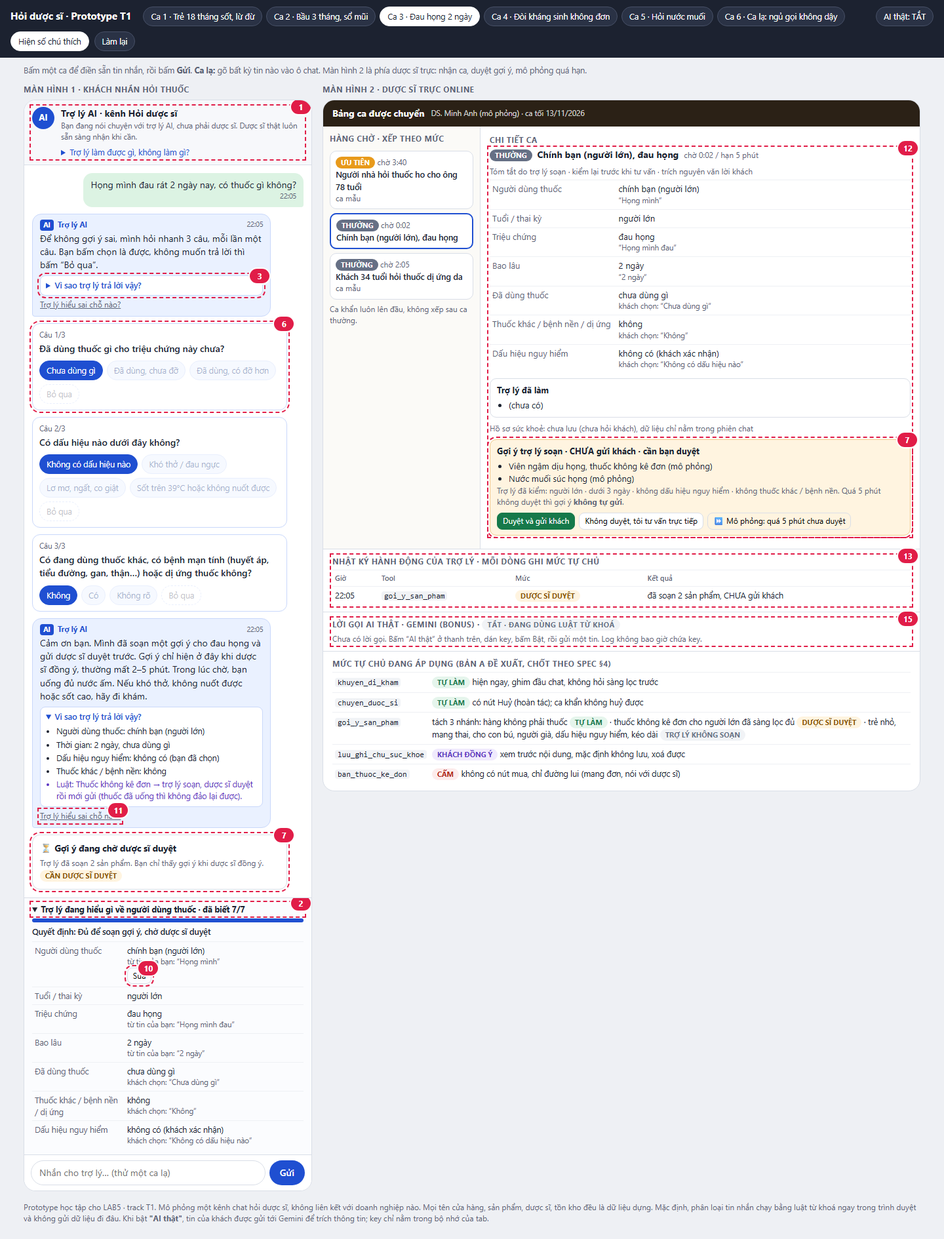
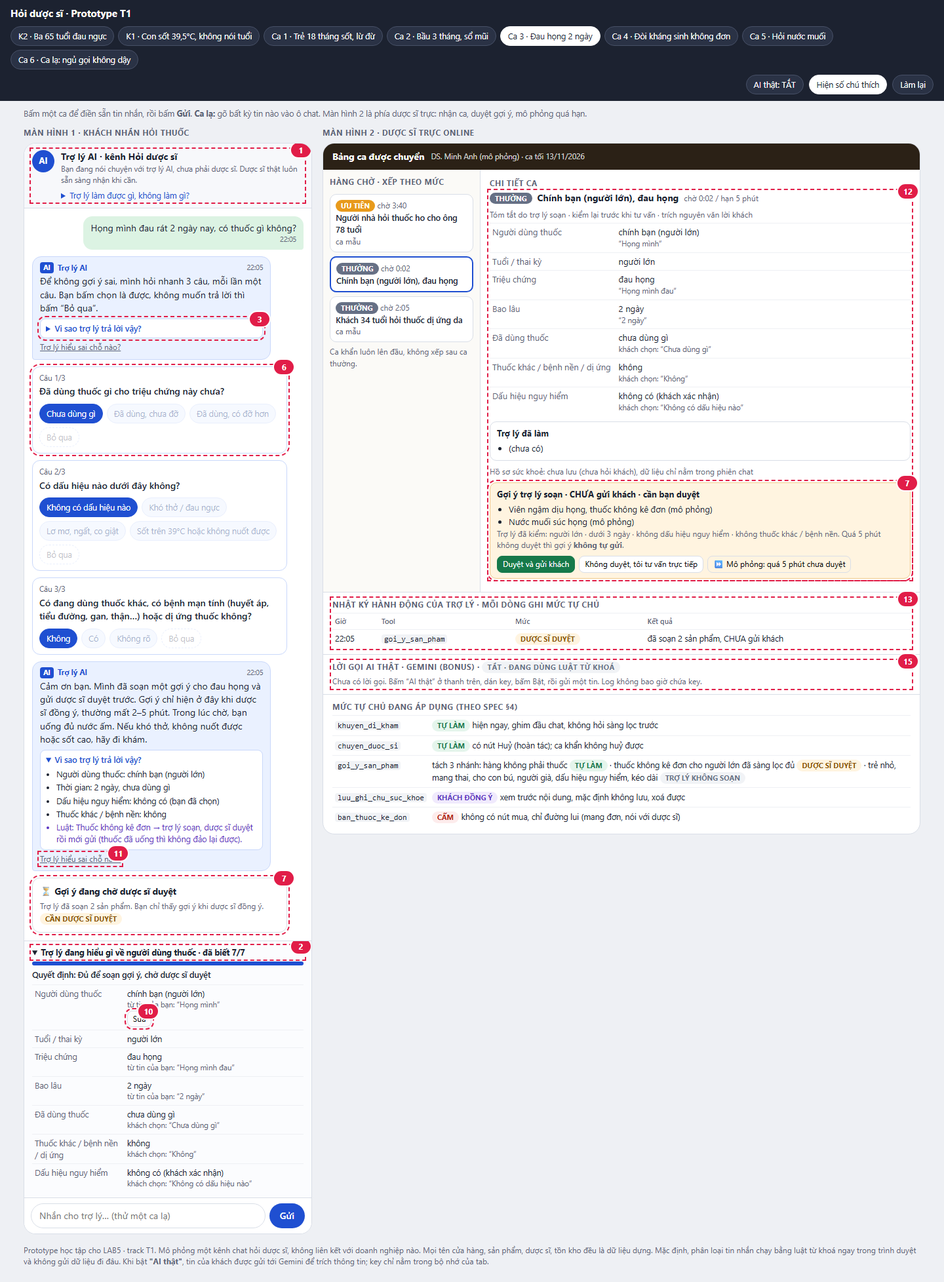
Phần của A: prototype và §5, §6 theo 2 kịch bản đắt nhất K2, K1
- Prototype: thêm ca K2 (đau ngực) và K1 (trẻ sốt không nói tuổi) đúng nguyên
  văn §2; nhãn bảng mức tự chủ "theo spec §4"; tin soạn sẵn cho dược sĩ ở ca
  người già cấp cứu nói "đưa người nhà đi khám"
- Ảnh: ảnh chính 1, 2 là K2, K1; Ca 1, Ca 2 thành ảnh phụ 6, 7; chụp lại cả 7 ảnh
- §5: đường bấm demo theo K2, K1; cột "Ảnh" của bảng ①–⑮; bỏ §5.6 (giả định)
- §6: chấm lại TC1–TC3 trên K2, K1; thêm lỗi còn lại về "lan lên cằm, vã mồ hôi"

Changed region(s): [[0.0, 0.0, 1.0, 0.9989], [0.8438, 0.5619, 0.9062, 0.6243]]

diff --git a/prototype/index.html b/prototype/index.html
@@ -238,7 +238,7 @@ body.annot [data-anno]::before{content:attr(data-anno);position:absolute;top:-11
       <div class="panel" id="logPanel"></div>
       <div class="panel ailog" id="aiLogPanel"></div>
       <div class="panel">
-        <h5>Mức tự chủ đang áp dụng (bản A đề xuất, chốt theo spec §4)</h5>
+        <h5>Mức tự chủ đang áp dụng (theo spec §4)</h5>
         <table class="legend">
           <tr><td><code>khuyen_di_kham</code></td><td><span class="badge b-auto">TỰ LÀM</span> hiện ngay, ghim đầu chat, không hỏi sàng lọc trước</td></tr>
           <tr><td><code>chuyen_duoc_si</code></td><td><span class="badge b-auto">TỰ LÀM</span> có nút Huỷ (hoàn tác); ca khẩn không huỷ được</td></tr>
@@ -257,6 +257,8 @@ window.onerror=function(m,s,l,c){var e=document.getElementById('err');e.style.di
 
 /* ================= DỮ LIỆU DỰNG ================= */
 const PRESETS={
+  k2:{label:'K2 · Ba 65 tuổi đau ngực',clock:[22,40],text:'Ba mình 65 tuổi, đang đau tức ngực trái lan lên cằm, vã mồ hôi, khó thở, có thuốc ngậm nào đỡ đau không?'},
+  k1:{label:'K1 · Con sốt 39,5°C, không nói tuổi',clock:[23,30],text:'Con mình sốt cao 39.5 độ từ chiều, có thuốc hạ sốt nào uống đỡ liền không shop?'},
   1:{label:'Ca 1 · Trẻ 18 tháng sốt, lừ đừ',clock:[23,47],text:'con mình 18 tháng sốt 39 độ từ chiều, uống hạ sốt rồi mà không hạ, giờ bé cứ lừ đừ, có thuốc gì mạnh hơn không, nhanh giúp mình với'},
   2:{label:'Ca 2 · Bầu 3 tháng, sổ mũi',clock:[21,20],text:'Mình đang bầu 3 tháng, bị cảm sổ mũi 2 hôm, có thuốc nào không ảnh hưởng em bé không ạ?'},
   3:{label:'Ca 3 · Đau họng 2 ngày',clock:[22,5],text:'Họng mình đau rát 2 ngày nay, có thuốc gì không?'},
@@ -264,6 +266,7 @@ const PRESETS={
   5:{label:'Ca 5 · Hỏi nước muối',clock:[21,50],text:'Pharmacity gần mình còn nước muối sinh lý không, tối nay mình qua lấy.'},
   6:{label:'Ca 6 · Ca lạ: ngủ gọi không dậy',clock:[23,10],text:'thằng cu nhà em 3 tuổi sốt từ tối qua, giờ cứ ngủ suốt gọi mãi không dậy, cho em xin thuốc hạ sốt loại nào tốt'}
 };
+const ORDER=['k2','k1',1,2,3,4,5,6];
 const DANGER=['lừ đừ','li bì','lơ mơ','co giật','khó thở','thở gấp','thở rít','tím tái','tím môi','đau ngực','tức ngực','ngất','bất tỉnh','nôn ra máu','đi ngoài ra máu','phân đen','cứng cổ','méo miệng','yếu nửa người','sưng môi','sưng mặt','bỏ bú','không bú','mệt lả','không thở được','ra huyết'];
 const RX=[['kháng sinh','kháng sinh'],['amoxicillin|amoxicilin|amox|augmentin|cefuroxim|cephalexin|azithromycin|ciprofloxacin','kháng sinh'],['thuốc huyết áp|amlodipin|losartan','thuốc huyết áp'],['corticoid|prednisolon|medrol|dexamethason','corticoid'],['thuốc ngủ|diazepam|seduxen','thuốc ngủ / an thần'],['tramadol|codein','thuốc giảm đau gây nghiện'],['metformin|insulin|thuốc tiểu đường','thuốc tiểu đường']];
 const SUP=[['nước muối sinh lý|nước muối','Nước muối sinh lý 0,9% (chai 500 ml)'],['khẩu trang','Khẩu trang y tế (hộp 50 cái)'],['nhiệt kế','Nhiệt kế điện tử'],['băng gạc|bông y tế|băng cá nhân','Băng gạc / bông y tế'],['que thử thai','Que thử thai']];
@@ -681,7 +684,7 @@ function dsAccept(){
 }
 function dsDraftText(){
   const f=S.facts;
-  if(S.path==='EMERG'&&!S.emerg.corrected)return'Chào bạn, mình là dược sĩ Minh Anh. '+(f.target==='child'?'Bé đang '+(f.danger.map(d=>S.quotes['d:'+d]||d).join(', '))+' nên bạn đưa bé đi khám ngay giúp mình nhé':'Với dấu hiệu bạn kể, bạn đi khám ngay giúp mình nhé')+', đừng chờ thêm thuốc. Bạn đang ở gần cơ sở y tế nào? Mình gọi cho bạn ngay bây giờ được không?';
+  if(S.path==='EMERG'&&!S.emerg.corrected)return'Chào bạn, mình là dược sĩ Minh Anh. '+(f.target==='child'?'Bé đang '+(f.danger.map(d=>S.quotes['d:'+d]||d).join(', '))+' nên bạn đưa bé đi khám ngay giúp mình nhé':(f.target==='elderly'?'Với dấu hiệu bạn kể, bạn đưa người nhà đi khám ngay giúp mình nhé':'Với dấu hiệu bạn kể, bạn đi khám ngay giúp mình nhé'))+', đừng chờ thêm thuốc. Bạn đang ở gần cơ sở y tế nào? Mình gọi cho bạn ngay bây giờ được không?';
   if(f.target==='pregnant')return'Chào bạn, mình là dược sĩ Minh Anh. Mẹ bầu 3 tháng bị sổ mũi 2 ngày, không sốt thì bạn có thể rửa mũi bằng nước muối biển xịt mũi, an toàn trong thai kỳ. Bạn tránh tự dùng thuốc cảm tổng hợp. Nếu sốt, khó thở hoặc sau 3 ngày chưa đỡ, bạn đi khám giúp mình nhé.';
   if(f.target==='child')return'Chào bạn, mình là dược sĩ Minh Anh. Mình đã đọc tóm tắt của trợ lý. Bạn cho mình biết thêm cân nặng của bé và tên thuốc hạ sốt bé đã uống, uống lúc mấy giờ nhé.';
   return'Chào bạn, mình là dược sĩ Minh Anh. Mình đã đọc tóm tắt của trợ lý. Bạn cho mình hỏi thêm một chút trước khi tư vấn nhé.';
@@ -736,7 +739,7 @@ function noteText(){
   return parts.join(' · ');
 }
 const ACT={
-  preset:a=>{reset(+a);},
+  preset:a=>{reset(PRESETS[a]?a:+a);},
   ans:a=>{const [qi,oi]=a.split(':').map(Number);answer(qi,oi);},
   undoTransfer:()=>{S.transfer.status='huy';S.path='CANCELLED';log('chuyen_duoc_si','HOÀN TÁC','khách huỷ chuyển');
     addAI('Đã huỷ chuyển dược sĩ. Lưu ý: '+(reasonsAll().length?'vì '+reasonsAll().map(r=>REASON[r]).join(' và ')+', ':'')+'trợ lý vẫn không tự gợi ý thuốc. Bạn có thể hỏi giá, tồn kho, hoặc nói chuyện với dược sĩ bất cứ lúc nào.',{btns:[['Nói chuyện với dược sĩ','toDS']]});},
@@ -788,7 +791,7 @@ function renderAiLog(){
 /* ================= VẼ GIAO DIỆN ================= */
 function btn(label,act,arg,cls,anno){return '<button class="btn '+(cls||'')+'" data-act="'+act+'"'+(arg!=null?' data-arg="'+esc(arg)+'"':'')+(anno?' data-anno="'+anno+'"':'')+'>'+esc(label)+'</button>';}
 function render(){
-  $('#cases').innerHTML=Object.entries(PRESETS).map(([k,p])=>'<button data-act="preset" data-arg="'+k+'" class="'+(S.caseId==k?'on':'')+'">'+esc(p.label)+'</button>').join('');
+  $('#cases').innerHTML=ORDER.map(k=>[k,PRESETS[k]]).map(([k,p])=>'<button data-act="preset" data-arg="'+k+'" class="'+(S.caseId==k?'on':'')+'">'+esc(p.label)+'</button>').join('');
   renderPinned();renderChat();renderUnderstand();renderDS();renderAiLog();
   if(!document.body.classList.contains('shot')){const c=$('#chat');c.scrollTop=c.scrollHeight;}
 }
@@ -967,6 +970,7 @@ const PLAYS={
   3:[()=>answer(0,0),()=>answer(1,0),()=>answer(2,0),()=>dsApprove()],
   '3a':[()=>answer(0,0),()=>answer(1,0),()=>answer(2,0)],
   '2b':[()=>answer(0,2)],
+  'k1':[()=>answer(0,0)],'k1b':[()=>answer(0,1)],'k2':[],
   4:[],5:[()=>{S.hold='held';}]
 };
 function boot(){
@@ -975,7 +979,8 @@ function boot(){
   if(p.get('annot')){document.body.classList.add('annot');$('#annotBtn').classList.add('on');}
   if(p.get('shot'))document.body.classList.add('shot');
   const c=p.get('case');
-  reset(c&&PRESETS[parseInt(c)]?parseInt(c):null);
+  const base=c?c.replace(/[ab]$/,''):null;
+  reset(base&&(PRESETS[base]?base:(PRESETS[parseInt(base)]?parseInt(base):null)));
   if(c&&p.get('play')){send($('#msg').value);(PLAYS[c]||[]).forEach(fn=>fn());render();}
   if(p.get('say'))p.get('say').split('|').forEach(m=>send(m));
   if(c&&p.get('play'))$('#msg').value='';

diff --git a/spec.md b/spec.md
@@ -317,7 +317,7 @@ Trên prototype, lời hứa mới hiện ở mục ① "Trợ lý làm được
 
 ## §5. Prototype  (chặng 5)
 
-> Phụ trách: **Lê Thành Nguyên (2A202603733)**. Chỗ nào phụ thuộc §2, §3, §4 được ghi ở §5.6.
+> Phụ trách: **Lê Thành Nguyên (2A202603733)**. Prototype chạy đúng 2 kịch bản đắt nhất ở §2 (K2, K1), dùng nguyên văn câu AI ở §3 và các mức tự chủ ở §4.
 
 ### 5.1 File, công cụ, phần mock
 
@@ -336,52 +336,72 @@ Trên prototype, lời hứa mới hiện ở mục ① "Trợ lý làm được
   - **Key không nằm trong code hay repo.** Key chỉ giữ trong bộ nhớ của tab và bị xoá khỏi ô nhập ngay khi bấm Bật. Lời gọi chỉ gửi tin dựng.
   - Bằng chứng: [`prototype/ai-call-log.json`](prototype/ai-call-log.json) (3 lời gọi thật, không chứa key) và [`prototype/anh-5-ai-that-ca-6.png`](prototype/anh-5-ai-that-ca-6.png).
 - **Các ca có sẵn trên thanh trên cùng:**
+  - **K2:** ba 65 tuổi đau tức ngực, khó thở (kịch bản đắt nhất 1, §2).
+  - **K1:** con sốt 39,5°C, không nói tuổi (kịch bản đắt nhất 2, §2).
   - Ca 1: trẻ 18 tháng sốt, lừ đừ (ca demo bắt buộc).
   - Ca 2: bầu 3 tháng, sổ mũi.
   - Ca 3: người lớn đau họng 2 ngày.
   - Ca 4: đòi kháng sinh không có đơn.
-  - Ca 5: hỏi nước muối (ca bình thường).
+  - Ca 5: hỏi nước muối (ca bình thường, tương ứng K3).
   - Ca 6: ca lạ "ngủ suốt gọi mãi không dậy", dùng để so sánh có và không có AI thật.
   - Ca lạ: gõ bất kỳ tin nào vào ô chat.
 
 ### 5.2 Ảnh đánh số
 
-Ảnh chính: [`anh-1-ca-tre-nho.png`](prototype/anh-1-ca-tre-nho.png) (Ca 1) và [`anh-2-ca-mang-thai.png`](prototype/anh-2-ca-mang-thai.png) (Ca 2).
+Ảnh chính (2 kịch bản đắt nhất):
+- **ảnh 1:** [`anh-1-k2-dau-nguc.png`](prototype/anh-1-k2-dau-nguc.png) (K2).
+- **ảnh 2:** [`anh-2-k1-tre-sot.png`](prototype/anh-2-k1-tre-sot.png) (K1).
 
-Ảnh phụ: [`anh-3-cho-duoc-si-duyet.png`](prototype/anh-3-cho-duoc-si-duyet.png) (Ca 3, đang chờ duyệt), [`anh-4-thuoc-ke-don.png`](prototype/anh-4-thuoc-ke-don.png) (Ca 4) và [`anh-5-ai-that-ca-6.png`](prototype/anh-5-ai-that-ca-6.png) (Ca 6 có lời gọi Gemini thật, ảnh 5).
+Ảnh phụ:
+- **ảnh 3:** [`anh-3-cho-duoc-si-duyet.png`](prototype/anh-3-cho-duoc-si-duyet.png) (Ca 3, đang chờ duyệt).
+- **ảnh 4:** [`anh-4-thuoc-ke-don.png`](prototype/anh-4-thuoc-ke-don.png) (Ca 4, việc cấm).
+- **ảnh 5:** [`anh-5-ai-that-ca-6.png`](prototype/anh-5-ai-that-ca-6.png) (Ca 6, có lời gọi Gemini thật).
+- **ảnh 6:** [`anh-6-ca-1-tre-lu-du.png`](prototype/anh-6-ca-1-tre-lu-du.png) (Ca 1).
+- **ảnh 7:** [`anh-7-ca-2-mang-thai.png`](prototype/anh-7-ca-2-mang-thai.png) (Ca 2, có thẻ lưu ghi chú).
 
 Trong prototype, bấm nút "Hiện số chú thích" để thấy đúng các số dưới đây.
 
 | Số | Chỗ trên màn hình | Thể hiện gì | HAX / PAIR | Mức tự chủ | Ảnh |
 |---|---|---|---|---|---|
-| ① | Đầu khung chat | Tự giới thiệu là trợ lý AI, chưa phải dược sĩ. Mục mở ra "Trợ lý làm được gì, không làm gì?" | **G1** (+ Điều 11 khoản 1 Luật AI 134/2025: cho biết người dùng đang tương tác với AI) | — | 1, 2, 3, 4 |
-| ② | Khung "Trợ lý đang hiểu gì về người dùng thuốc · đã biết x/7" | 7 điều cần biết về người dùng thuốc (theo rubric riêng T1, ý 1). Mỗi điều kèm trích nguyên văn lời khách hoặc "khách chọn: …". Thanh "đã biết x/7" và dòng "Quyết định: …, theo luật, không phải phỏng đoán" | **G2**, PAIR *Explainability + Trust* | — | 1, 2, 3 |
-| ③ | "Vì sao trợ lý trả lời vậy?" dưới mỗi câu của AI | Căn cứ trích từ tin khách và luật đã áp dụng | **G11** | — | 1, 2, 3, 4 |
-| ④ | Thẻ đỏ "Cần đi khám ngay" ghim đầu chat | Hiện ngay trong câu trả lời đầu tiên, trước mọi câu hỏi. Có nút Gọi 115, Cơ sở y tế gần nhất, Mình đang đi khám. Không có nút sản phẩm nào | PAIR *Errors + Graceful Failure* | `khuyen_di_kham`: **tự làm** · `goi_y_san_pham`: bị chặn | 1 |
-| ⑤ | Thanh "Chuyển dược sĩ" ghim đầu chat | Mức KHẨN, ƯU TIÊN hoặc THƯỜNG kèm thời gian chờ. Có nút **Huỷ chuyển** (hoàn tác). Ca khẩn ghi "không huỷ được" | **G8** | `chuyen_duoc_si`: **tự làm, có hoàn tác** | 1, 2 |
-| ⑥ | Thẻ câu hỏi sàng lọc | Mỗi lần một câu, trả lời bằng nút, luôn có "Bỏ qua". Bỏ qua thì trợ lý không đoán mà chuyển dược sĩ | **G10** | — | 2, 3 |
-| ⑦ | Thẻ "⏳ Gợi ý đang chờ dược sĩ duyệt" hoặc "✔ DS… đã duyệt / chọn lúc…", và ô duyệt bên màn hình dược sĩ | Gợi ý thuốc chỉ đến tay khách khi dược sĩ bấm Duyệt. Quá 5 phút chưa duyệt thì **không tự gửi** | PAIR *Trust* | `goi_y_san_pham` (thuốc không kê đơn): **cần dược sĩ duyệt** | 2, 3 |
+| ① | Đầu khung chat | Tự giới thiệu là trợ lý AI, chưa phải dược sĩ. Mục mở ra "Trợ lý làm được gì, không làm gì?" | **G1** (+ Điều 11 khoản 1 Luật AI 134/2025: cho biết người dùng đang tương tác với AI) | — | tất cả |
+| ② | Khung "Trợ lý đang hiểu gì về người dùng thuốc · đã biết x/7" | 7 điều cần biết về người dùng thuốc (theo rubric riêng T1, ý 1). Mỗi điều kèm trích nguyên văn lời khách hoặc "khách chọn: …". Thanh "đã biết x/7" và dòng "Quyết định: …, theo luật, không phải phỏng đoán" | **G2**, PAIR *Explainability + Trust* | — | tất cả |
+| ③ | "Vì sao trợ lý trả lời vậy?" dưới mỗi câu của AI | Căn cứ trích từ tin khách và luật đã áp dụng | **G11** | — | tất cả |
+| ④ | Thẻ đỏ "Cần đi khám ngay" ghim đầu chat | Hiện ngay trong câu trả lời đầu tiên, trước mọi câu hỏi. Có nút Gọi 115, Cơ sở y tế gần nhất, Mình đang đi khám. Không có nút sản phẩm nào | PAIR *Errors + Graceful Failure* | `khuyen_di_kham`: **tự làm** · `goi_y_san_pham`: bị chặn | 1, 5, 6 |
+| ⑤ | Thanh "Chuyển dược sĩ" ghim đầu chat | Mức KHẨN, ƯU TIÊN hoặc THƯỜNG kèm thời gian chờ. Có nút **Huỷ chuyển** (hoàn tác). Ca khẩn ghi "không huỷ được" | **G8** | `chuyen_duoc_si`: **tự làm, có hoàn tác** | 1, 2, 5, 6, 7 |
+| ⑥ | Thẻ câu hỏi sàng lọc | Mỗi lần một câu, trả lời bằng nút, luôn có "Bỏ qua". Bỏ qua thì trợ lý không đoán mà chuyển dược sĩ | **G10** | — | 2, 3, 7 |
+| ⑦ | Thẻ "⏳ Gợi ý đang chờ dược sĩ duyệt" hoặc "✔ DS… đã duyệt / chọn lúc…", và ô duyệt bên màn hình dược sĩ | Gợi ý thuốc chỉ đến tay khách khi dược sĩ bấm Duyệt. Quá 5 phút chưa duyệt thì **không tự gửi** | PAIR *Trust* | `goi_y_san_pham` (thuốc không kê đơn): **cần dược sĩ duyệt** | 3, 7 |
 | ⑧ | Thẻ "Thuốc kê đơn: trợ lý không bán qua chat" | **Không có nút mua.** Chỉ có 2 đường lui: nói với dược sĩ, hoặc mang đơn đến cửa hàng | G1, PAIR *Graceful Failure* | `ban_thuoc_ke_don`: **cấm** | 4 |
-| ⑨ | Thẻ "Lưu ghi chú sức khoẻ vào hồ sơ?" | Khách xem trước nguyên văn nội dung sẽ lưu. **Mặc định: không lưu.** Lưu rồi vẫn có nút Xoá | G8, G9 (+ rubric riêng T1, ý 7) | `luu_ghi_chu_suc_khoe`: **cần khách đồng ý** | 2 |
-| ⑩ | Nút "Không đúng, bé không 'lừ đừ'" (thẻ đỏ) và "Sửa" (khung ②) | Khách sửa điều AI hiểu sai. Lời sửa chỉ đưa ca về mức an toàn ngang hoặc cao hơn (vẫn chuyển dược sĩ), không bao giờ quay về gợi ý sản phẩm tự động | **G9** | — | 1, 2, 3 |
-| ⑪ | Link "Trợ lý hiểu sai chỗ nào?" dưới câu của AI | 4 lựa chọn cụ thể. Phản hồi đi thẳng vào tóm tắt cho dược sĩ | **G15** | — | 1, 2, 3 |
-| ⑫ | Màn hình dược sĩ: chi tiết ca | Mức ưu tiên, đồng hồ chờ và hạn (khẩn 2 phút, ưu tiên 3, thường 5). Tóm tắt kèm trích lời khách, mục "Cần hỏi thêm", việc trợ lý đã làm và đã chặn, trạng thái hồ sơ. Tin soạn sẵn mà dược sĩ phải đọc, sửa rồi mới gửi. Nút "Nhận ca", "Duyệt", "Không duyệt", "Mô phỏng quá hạn" | PAIR *Explainability* cho người duyệt | Cho thấy người duyệt **thấy gì trước khi bấm** và **quá hạn thì sao** | 1, 2, 3 |
-| ⑬ | Nhật ký hành động của trợ lý | Mỗi lần trợ lý gọi một tool hoặc bị chặn đều ghi giờ và mức tự chủ: TỰ LÀM, DƯỢC SĨ DUYỆT, KHÁCH ĐỒNG Ý, BỊ CHẶN, CẤM, HOÀN TÁC, QUÁ HẠN | PAIR *Trust* (kiểm lại được) | Cả 5 tool | 1, 2, 3, 4, 5 |
+| ⑨ | Thẻ "Lưu ghi chú sức khoẻ vào hồ sơ?" | Khách xem trước nguyên văn nội dung sẽ lưu. **Mặc định: không lưu.** Lưu rồi vẫn có nút Xoá | G8, G9 (+ rubric riêng T1, ý 7) | `luu_ghi_chu_suc_khoe`: **cần khách đồng ý** | 7 |
+| ⑩ | Nút "Không đúng, bé không 'lừ đừ'" (thẻ đỏ) và "Sửa" (khung ②) | Khách sửa điều AI hiểu sai. Lời sửa chỉ đưa ca về mức an toàn ngang hoặc cao hơn (vẫn chuyển dược sĩ), không bao giờ quay về gợi ý sản phẩm tự động | **G9** | — | tất cả |
+| ⑪ | Link "Trợ lý hiểu sai chỗ nào?" dưới câu của AI | 4 lựa chọn cụ thể. Phản hồi đi thẳng vào tóm tắt cho dược sĩ | **G15** | — | tất cả |
+| ⑫ | Màn hình dược sĩ: chi tiết ca | Mức ưu tiên, đồng hồ chờ và hạn (khẩn 2 phút, ưu tiên 3, thường 5). Tóm tắt kèm trích lời khách, mục "Cần hỏi thêm", việc trợ lý đã làm và đã chặn, trạng thái hồ sơ. Tin soạn sẵn mà dược sĩ phải đọc, sửa rồi mới gửi. Nút "Nhận ca", "Duyệt", "Không duyệt", "Mô phỏng quá hạn" | PAIR *Explainability* cho người duyệt | Cho thấy người duyệt **thấy gì trước khi bấm** và **quá hạn thì sao** | 1, 2, 3, 5, 6, 7 |
+| ⑬ | Nhật ký hành động của trợ lý | Mỗi lần trợ lý gọi một tool hoặc bị chặn đều ghi giờ và mức tự chủ: TỰ LÀM, DƯỢC SĨ DUYỆT, KHÁCH ĐỒNG Ý, BỊ CHẶN, CẤM, HOÀN TÁC, QUÁ HẠN | PAIR *Trust* (kiểm lại được) | Cả 5 tool | tất cả |
 | ⑭ | Màn hình dược sĩ: ô "Gemini · AI thật đã thêm vào tóm tắt" | Liệt kê phần AI thật được nhận vào quyết định, phần bị từ chối, và câu hỏi sàng lọc AI đề xuất. Câu hỏi này chỉ hiện cho dược sĩ, không hiện cho khách | **G11**, PAIR *Explainability* | AI chỉ đọc và trích, không gọi tool nào | 5 |
-| ⑮ | Màn hình dược sĩ: "Lời gọi AI thật · Gemini" | Mỗi lời gọi ghi model, tin đã gửi đi, JSON Gemini trả về, phần được nhận và phần không nhận. Có nút "Tải log (JSON)". Log không bao giờ chứa key | PAIR *Trust* (kiểm lại được) | — | 5 |
+| ⑮ | Màn hình dược sĩ: "Lời gọi AI thật · Gemini" | Mỗi lời gọi ghi model, tin đã gửi đi, JSON Gemini trả về, phần được nhận và phần không nhận. Có nút "Tải log (JSON)". Log không bao giờ chứa key | PAIR *Trust* (kiểm lại được) | — | tất cả (có lời gọi thật ở ảnh 5) |
 
-### 5.3 Đường bấm demo (ca bắt buộc: trẻ nhỏ có dấu hiệu nguy hiểm)
+### 5.3 Đường bấm demo (2 kịch bản đắt nhất)
 
-1. Bấm **Ca 1**, rồi **Gửi**.
+**K2: dấu hiệu nguy hiểm (ca demo bắt buộc)**
+
+1. Bấm **K2**, rồi **Gửi**.
 2. Khách thấy:
    - thẻ đỏ ④ ghim đầu chat;
-   - câu AI nói rằng bé có dấu hiệu nguy hiểm, cần gọi 115 hoặc đi khám ngay, và trợ lý không gợi ý "thuốc mạnh hơn";
-   - căn cứ ③ và khung ②.
-   - Không có thẻ sản phẩm nào.
-3. Ai được báo: màn hình dược sĩ ⑫ hiện ca **KHẨN** đứng đầu hàng chờ, có đồng hồ và hạn 2 phút. Tóm tắt trích "lừ đừ", "uống hạ sốt rồi … không hạ" và ghi những gì cần hỏi thêm: cân nặng, tên thuốc, giờ uống.
-4. Bấm **"⏩ quá 2 phút chưa ai nhận"**: nhật ký ghi QUÁ HẠN và báo dược sĩ trưởng ca, khách nhận thêm lời nhắc gọi 115 ngay.
-5. Bấm **"Không đúng, bé không 'lừ đừ'"** ⑩: ca hạ xuống ƯU TIÊN nhưng **vẫn chuyển dược sĩ**, trợ lý vẫn không gợi ý thuốc.
-6. Bấm **Nhận ca**: dược sĩ thấy tin soạn sẵn, sửa rồi gửi, hoặc bấm **Gọi lại cho khách**.
+   - câu AI nói nguyên văn như §3.1;
+   - căn cứ ③, trích "khó thở", "tức ngực".
+   - **Không có thẻ thuốc ngậm nào.**
+3. Ai được báo:
+   - ⑫: ca **KHẨN** đứng đầu hàng chờ, hạn 2 phút.
+   - Nhật ký ⑬ ghi `goi_y_san_pham` BỊ CHẶN.
+4. Bấm **"⏩ quá 2 phút chưa ai nhận"**: nhật ký ghi QUÁ HẠN, báo dược sĩ trưởng ca, khách được nhắc gọi 115.
+5. Bấm **Nhận ca**: dược sĩ thấy tin soạn sẵn "…bạn đưa người nhà đi khám ngay…" và nút **Gọi lại cho khách**.
+
+**K1: trẻ nhỏ, thiếu thông tin**
+
+6. Bấm **Làm lại**, rồi **K1**, rồi **Gửi**. Ca được chuyển dược sĩ ở mức **ƯU TIÊN**, có nút Huỷ ⑤. Câu hỏi ⑥ đầu tiên hỏi về dấu hiệu nguy hiểm.
+7. Chọn **"Lừ đừ, li bì, co giật"**: thẻ đỏ hiện ra, ca lên **KHẨN**, mất nút Huỷ. Nếu chọn "Không có dấu hiệu nào" thì hiện câu 2, hỏi về thuốc đang dùng.
+8. Bấm **"Không đúng"** ⑩: ca hạ xuống ƯU TIÊN nhưng **vẫn ở chỗ dược sĩ** (sàn an toàn), trợ lý vẫn không gợi ý thuốc.
+
+**Nếu còn giờ:** bật "AI thật" và bấm **Ca 6** (ảnh 5).
 
 ### 5.4 Gặp ca lạ thì prototype đi đường nào
 
@@ -486,13 +506,6 @@ Nếu một tin có hai yêu cầu, trợ lý trả lời phần hàng hoá trư
 - **Vì sao:** người đang lo hoặc đang vội có thể sửa để được trả lời nhanh. Một khi cuộc chat đã có cờ nguy hiểm, quyết định cuối thuộc về dược sĩ.
 - **Đây là lỗi mà sửa câu chữ không cứu được:** câu chữ khéo đến đâu cũng không ngăn được việc lời sửa của khách mở lại nút mua. Chỉ luật thiết kế này chặn được.
 
-### 5.6 Giả định cần khớp với §2, §3, §4
-
-- **§2:** prototype coi **Ca 1** (trẻ 18 tháng, sốt, lừ đừ, đòi thuốc mạnh hơn) và **Ca 2** (bầu 3 tháng, sổ mũi) là 2 kịch bản đắt nhất. Ca 5 là ca bình thường.
-- **§4:** các mức tự chủ đang dùng nằm ở bảng "Mức tự chủ đang áp dụng" cuối màn hình 2. Riêng `goi_y_san_pham` được tách 3 nhánh: hàng không phải thuốc thì tự làm; thuốc không kê đơn cho người lớn đã sàng lọc đủ thì dược sĩ duyệt; nhóm đặc biệt hoặc có dấu hiệu nguy hiểm thì trợ lý không soạn.
-- **§3:** câu AI nói trong prototype là bản nháp của A.
-- Nếu B hoặc C chốt khác, A sẽ sửa prototype và chụp lại ảnh.
-
 ## §6. Tốt là gì  (chặng 6, nhẹ)
 
 > Phụ trách: **Lê Thành Nguyên (2A202603733)**. Chấm trên prototype, không làm thêm gì.
@@ -505,20 +518,21 @@ Nếu một tin có hai yêu cầu, trợ lý trả lời phần hàng hoá trư
 | TC2 | **Ca nguy hiểm không nằm trong hàng chờ** | Với tin có dấu hiệu trong danh sách nguy hiểm, **câu trả lời đầu tiên** của trợ lý đã có "gọi 115 / đi khám ngay", trước mọi câu hỏi và mọi sản phẩm. Ca vào hàng dược sĩ ở mức **KHẨN**, đứng trên mọi ca thường | Câu trả lời đầu tiên là câu hỏi sàng lọc hoặc gợi ý sản phẩm, hoặc ca khẩn đứng sau ca thường |
 | TC3 | **Trợ lý không nói liều** | Không câu nào do trợ lý viết (kể cả tin soạn sẵn cho dược sĩ) chứa **liều dùng**: con số đi kèm mg, ml, viên, gói, giọt hoặc lần/ngày để chỉ lượng uống hay số lần dùng. Quy cách đóng gói (ví dụ "chai 500 ml") không tính | Có ít nhất 1 câu như vậy |
 
-**Chấm thử trên 2 kịch bản đắt nhất:**
+**Chấm thử trên 2 kịch bản đắt nhất (§2):**
 
 | | TC1 | TC2 | TC3 |
 |---|---|---|---|
-| **Ca 1:** trẻ 18 tháng sốt, lừ đừ | **Pass.** Không có thẻ sản phẩm, nhật ký có "BỊ CHẶN: dấu hiệu nguy hiểm + trẻ nhỏ" | **Pass.** Câu đầu tiên có 115, ca KHẨN đứng đầu hàng chờ, hạn 2 phút | **Pass** |
-| **Ca 2:** bầu 3 tháng, sổ mũi | **Pass.** Trợ lý không soạn gợi ý. Thẻ nước muối ghi "DS. Minh Anh chọn và gửi lúc 21:22" | **Không áp dụng**, vì không có dấu hiệu nguy hiểm. Biến thể: chọn "Ra huyết / đau bụng nhiều" ở câu hỏi trong lúc chờ thì ca nâng lên KHẨN và hiện thẻ đỏ: **Pass** | **Pass** |
+| **K2:** ba 65 tuổi đau tức ngực, khó thở | **Pass.** Không có thẻ sản phẩm nào. Nhật ký ghi "BỊ CHẶN: dấu hiệu nguy hiểm + người lớn tuổi" (ảnh 1) | **Pass.** Câu đầu tiên có "gọi 115", ca KHẨN đứng đầu hàng chờ, hạn 2 phút (ảnh 1) | **Pass.** Cả câu AI nói lẫn tin soạn sẵn cho dược sĩ đều không có liều |
+| **K1:** con sốt 39,5°C, không nói tuổi | **Pass.** Trợ lý không soạn gợi ý. Nhật ký ghi "BỊ CHẶN: thuốc dùng cho trẻ nhỏ" (ảnh 2) | **Không áp dụng**, vì tin không có dấu hiệu nguy hiểm. Biến thể: chọn "Lừ đừ, li bì, co giật" ở câu hỏi trong lúc chờ thì thẻ đỏ hiện ngay và ca lên KHẨN: **Pass** | **Pass.** Tin soạn sẵn cho dược sĩ chỉ hỏi cân nặng và tên thuốc, không nêu liều |
 
 **Lỗi còn lại, chưa sửa được:**
 
 1. **Nhận diện bằng từ khoá bỏ sót cách nói lạ**, ví dụ "bé ngủ suốt gọi không dậy". Khi đó ca nguy hiểm có thể rơi vào nhánh hỏi sàng lọc. Bật AI thật thì Gemini bắt được ca này (Ca 6, ảnh 5). Nhưng nếu Gemini lỗi hoặc quá tải thì trợ lý lại chỉ còn luật từ khoá. Câu hỏi "có dấu hiệu nào dưới đây không" chỉ chặn được một phần. Model thật cần một bộ eval riêng cho danh sách dấu hiệu nguy hiểm.
 2. **Khách khẳng định sai người dùng thuốc**, ví dụ nói "mình bị ho" nhưng thật ra là cho con. Khi đó trợ lý đi nhánh người lớn. Thiết kế chỉ cứu được nếu khách tự bấm "Sửa". Nếu khách không sửa thì chưa có gì chặn.
 3. **Quá hạn bên dược sĩ:** thiết kế báo dược sĩ trưởng ca và nhắc khách gọi 115, nhưng không bảo đảm có người gọi lại trong 2 phút nếu ca trực thiếu người.
-4. **Ca 2 chỉ hỏi tối đa 2 câu trong lúc chờ** để khách không thấy bị hỏi dồn, nên mục "đã dùng thuốc gì" vẫn để dược sĩ hỏi.
+4. **K1 chỉ hỏi tối đa 2 câu trong lúc chờ** (dấu hiệu nguy hiểm, thuốc đang dùng) để khách không thấy bị hỏi dồn. Vì vậy tuổi, cân nặng và "đã dùng thuốc gì" vẫn để dược sĩ hỏi (§3.2).
 5. **"Mẹ mình / bố mình" mặc định là người lớn tuổi.** Cách này an toàn nhưng có thể chuyển dược sĩ thừa.
+6. **K2: cụm "lan lên cằm, vã mồ hôi" chưa được trích ra.** Ca vẫn đi đúng đường nhờ có "khó thở", "tức ngực" (§3.3). Nếu khách chỉ tả "đau ngực lan lên cằm, vã mồ hôi" mà không nói "tức ngực" hay "khó thở" thì phải nhờ AI thật mới bắt được.
 
 ## §7. Demo
 

diff --git a/prototype/README.md b/prototype/README.md
@@ -15,7 +15,9 @@ Nút **"Hiện số chú thích"** bật các số ① đến ⑬. Các số nà
 
 | Ca | Tin khách nhắn | Đường đi |
 |---|---|---|
-| **Ca 1** (ca demo bắt buộc) | "con mình 18 tháng sốt 39 độ…, uống hạ sốt rồi mà không hạ, giờ bé cứ lừ đừ, có thuốc gì mạnh hơn không" | Thẻ đỏ "Cần đi khám ngay" + chuyển dược sĩ KHẨN. Trợ lý không gợi ý sản phẩm |
+| **K2** (kịch bản đắt nhất 1) | "Ba mình 65 tuổi, đang đau tức ngực trái lan lên cằm, vã mồ hôi, khó thở, có thuốc ngậm nào đỡ đau không?" | Thẻ đỏ "Cần đi khám ngay" + chuyển dược sĩ KHẨN. Không có thẻ thuốc |
+| **K1** (kịch bản đắt nhất 2) | "Con mình sốt cao 39.5 độ từ chiều, có thuốc hạ sốt nào uống đỡ liền không shop?" | Chuyển dược sĩ ƯU TIÊN, hỏi tối đa 2 câu trong lúc chờ. Chọn "Lừ đừ" thì ca lên KHẨN |
+| Ca 1 | "con mình 18 tháng sốt 39 độ…, uống hạ sốt rồi mà không hạ, giờ bé cứ lừ đừ, có thuốc gì mạnh hơn không" | Thẻ đỏ "Cần đi khám ngay" + chuyển dược sĩ KHẨN. Trợ lý không gợi ý sản phẩm |
 | Ca 2 | "Mình đang bầu 3 tháng, bị cảm sổ mũi 2 hôm…" | Chuyển dược sĩ ƯU TIÊN, hỏi tối đa 2 câu trong lúc chờ. Dược sĩ tự chọn sản phẩm |
 | Ca 3 | "Họng mình đau rát 2 ngày nay, có thuốc gì không?" | Hỏi lần lượt 3 câu, trợ lý soạn gợi ý, **dược sĩ duyệt** rồi mới gửi |
 | Ca 4 | "bán mình 1 vỉ amoxicillin… khỏi cần đơn nha" | Thuốc kê đơn bị **cấm**: không có nút mua, chỉ có đường lui |
@@ -32,13 +34,15 @@ Các nút nên bấm thử khi demo:
 
 | Ảnh | Ca |
 |---|---|
-| [`anh-1-ca-tre-nho.png`](anh-1-ca-tre-nho.png) | Ca 1, trẻ nhỏ có dấu hiệu nguy hiểm *(ảnh chính 1)* |
-| [`anh-2-ca-mang-thai.png`](anh-2-ca-mang-thai.png) | Ca 2, người mang thai *(ảnh chính 2)* |
-| [`anh-3-cho-duoc-si-duyet.png`](anh-3-cho-duoc-si-duyet.png) | Ca 3, gợi ý đang chờ dược sĩ duyệt *(ảnh phụ)* |
-| [`anh-4-thuoc-ke-don.png`](anh-4-thuoc-ke-don.png) | Ca 4, việc bị cấm *(ảnh phụ)* |
+| [`anh-1-k2-dau-nguc.png`](anh-1-k2-dau-nguc.png) | K2, đau ngực *(ảnh chính 1)* |
+| [`anh-2-k1-tre-sot.png`](anh-2-k1-tre-sot.png) | K1, trẻ sốt không nói tuổi *(ảnh chính 2)* |
+| [`anh-3-cho-duoc-si-duyet.png`](anh-3-cho-duoc-si-duyet.png) | Ca 3, gợi ý đang chờ dược sĩ duyệt |
+| [`anh-4-thuoc-ke-don.png`](anh-4-thuoc-ke-don.png) | Ca 4, việc bị cấm |
 | [`anh-5-ai-that-ca-6.png`](anh-5-ai-that-ca-6.png) | Ca 6 có lời gọi Gemini thật *(bằng chứng bonus)* |
+| [`anh-6-ca-1-tre-lu-du.png`](anh-6-ca-1-tre-lu-du.png) | Ca 1, trẻ 18 tháng lừ đừ |
+| [`anh-7-ca-2-mang-thai.png`](anh-7-ca-2-mang-thai.png) | Ca 2, mang thai, có thẻ lưu ghi chú |
 
-Để chụp lại đúng trạng thái trong ảnh, mở `index.html#case=1&play=1&annot=1&shot=1`. Thay `case=` bằng `2`, `3a` (chờ duyệt), `3` (đã duyệt), `4` hoặc `5`. Có thể thêm `say=` kèm một tin nhắn để chạy thử một ca lạ.
+Để chụp lại đúng trạng thái trong ảnh, mở `index.html#case=k2&play=1&annot=1&shot=1`. Thay `case=` bằng `k1`, `k1b` (K1 chọn "Lừ đừ"), `1`, `2`, `3a` (chờ duyệt), `3` (đã duyệt), `4`, `5` hoặc `6`. Có thể thêm `say=` kèm một tin nhắn để chạy thử một ca lạ.
 
 ## Lời gọi AI thật (bonus)
 
